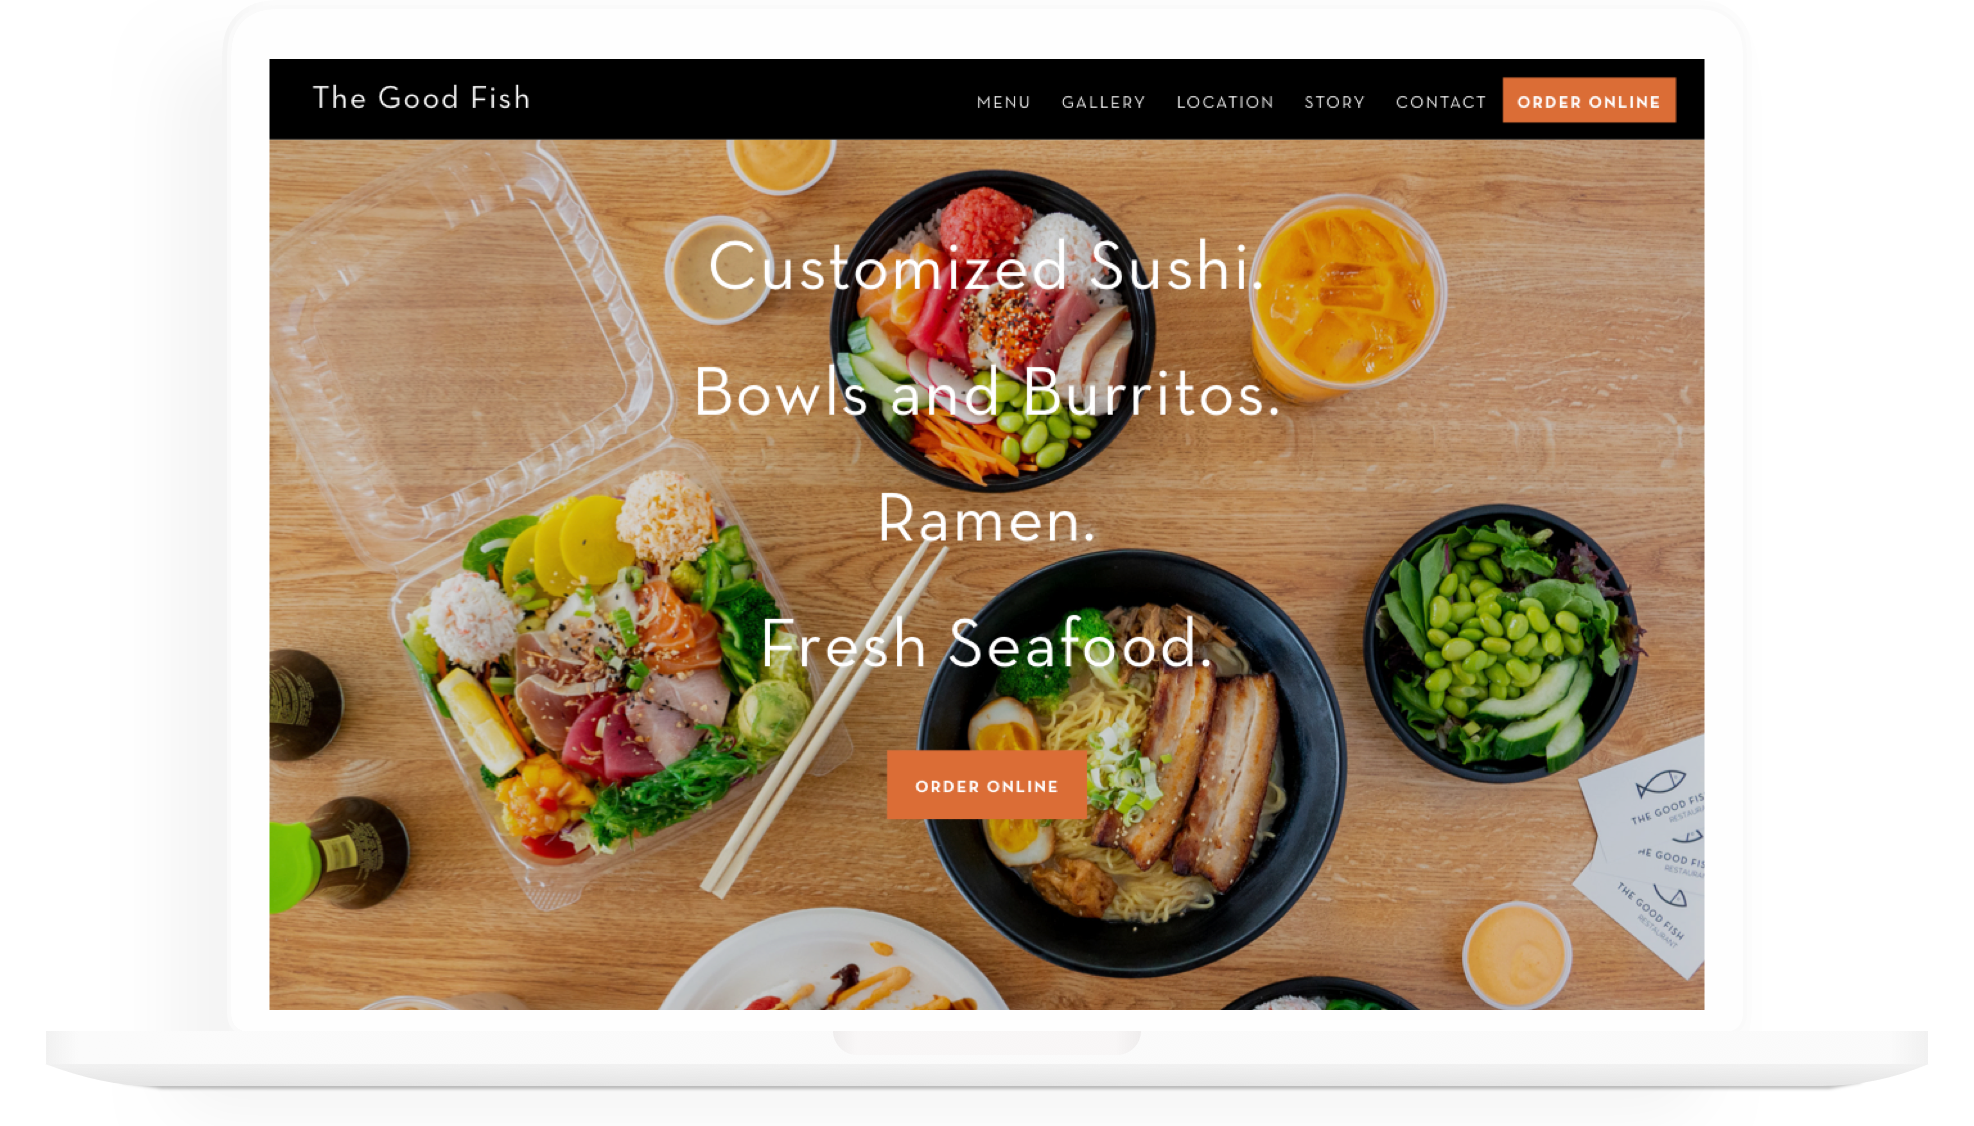
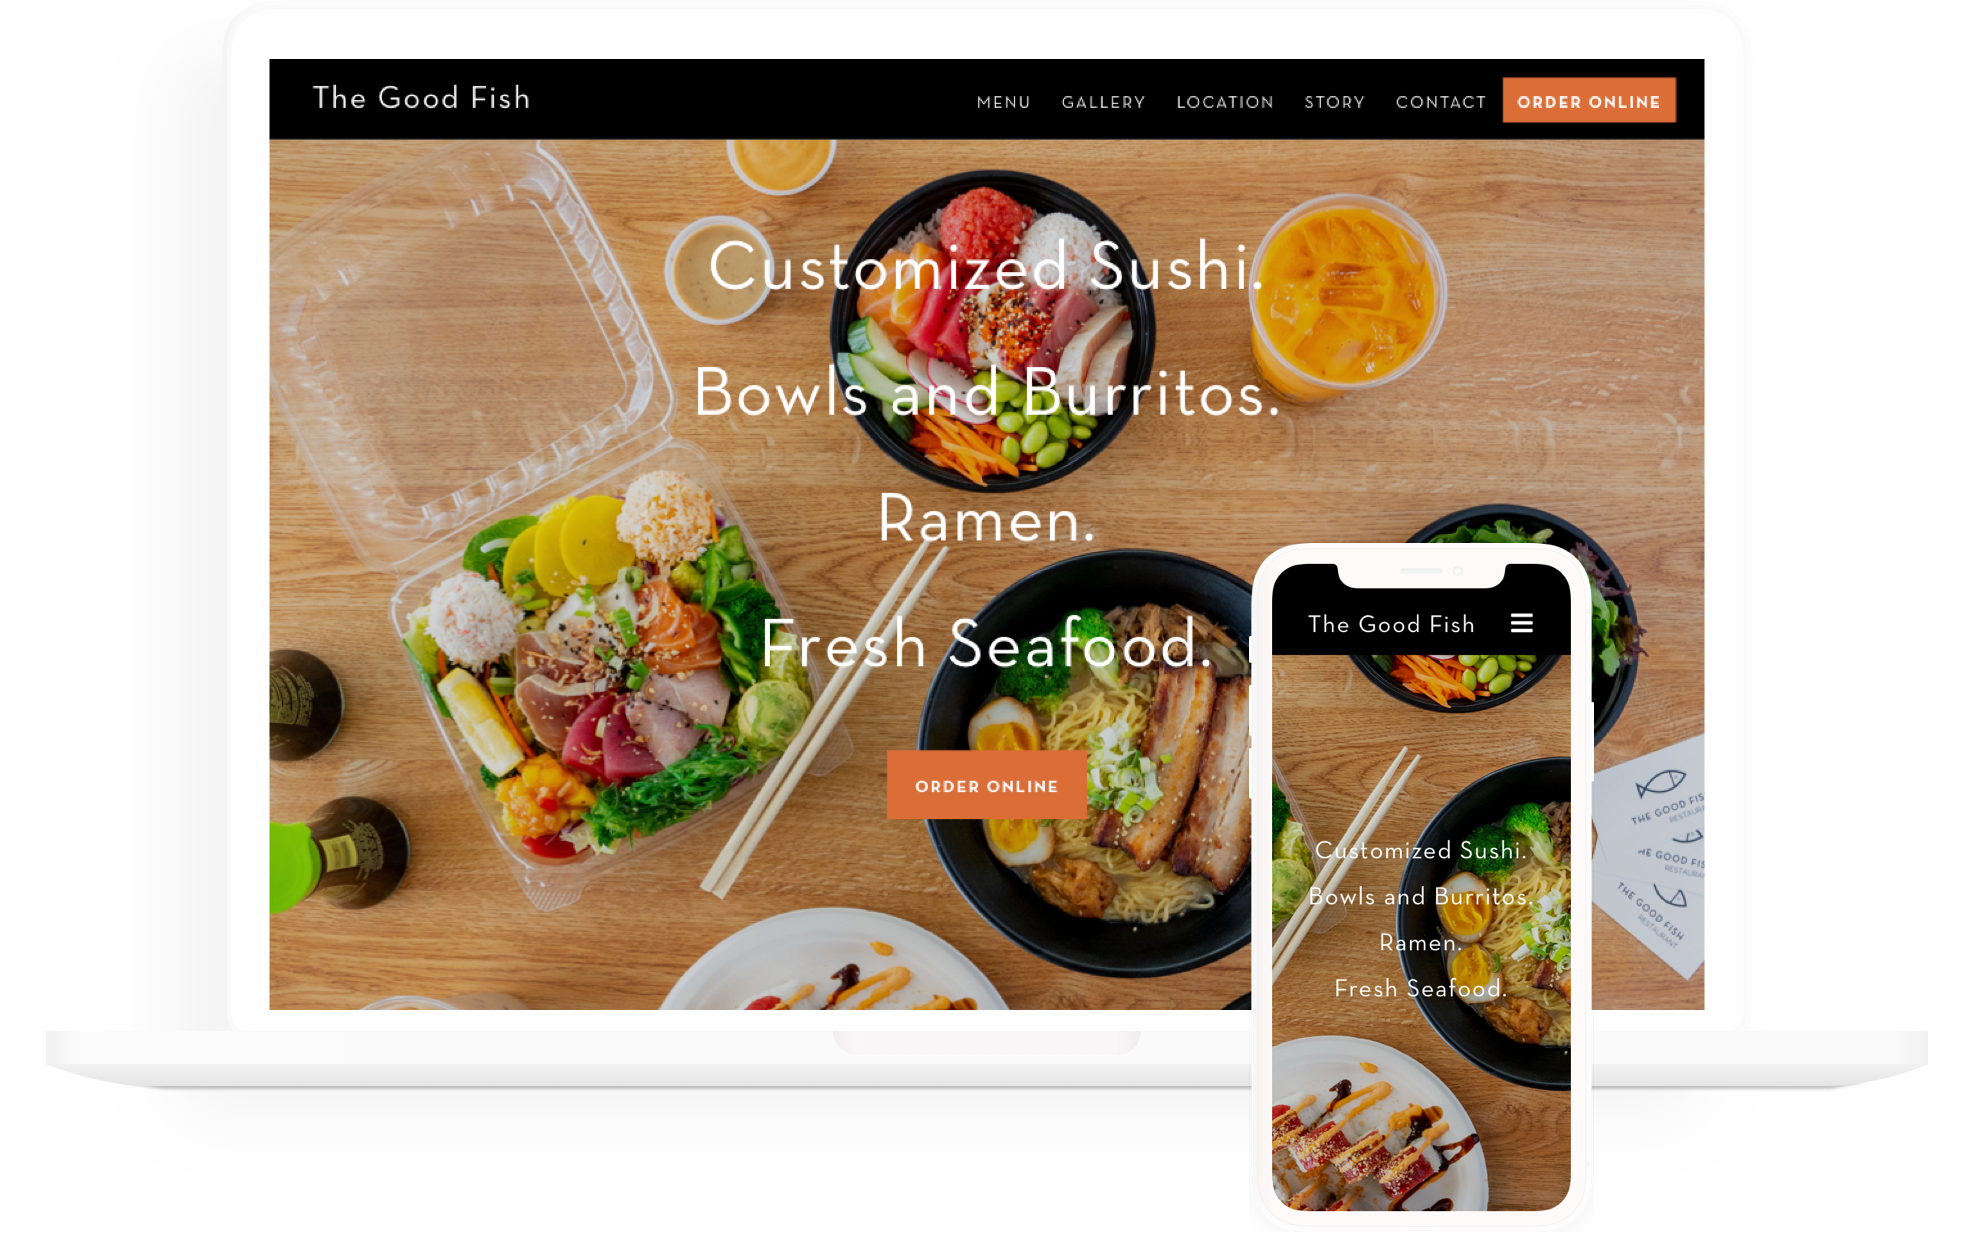
update

diff --git a/css/client-work.css b/css/client-work.css
@@ -102,25 +102,35 @@ TYPOGRAPHY
 IMAGES
 ------------------------------------------- */
 #tgf_laptop {
-  margin-top: 14%;
+  margin-top: 66px;
 }
 
-#tgf_iphone {
-  position: absolute;
-  width: 8%;
-  right: 19%;
-  top: 175%;
+#tgf_laptop2 {
+  display: none;
+  margin-top: 66px;
 }
 
 #tgf_ca {
   border: 10px solid white;
-  width: 90%;
+  width: 100%;
   margin-top: 4%;
   box-shadow: 0 10px 20px rgba(0, 0, 0, 0.19), 0 6px 6px rgba(0, 0, 0, 0.23);
   border-top-left-radius: 15px;
   border-bottom-left-radius: 15px;
   border-top-right-radius: 15px;
   border-bottom-right-radius: 15px;
+}
+
+#tgf_ca2 {
+  border: 10px solid white;
+  width: 100%;
+  margin-top: 4%;
+  box-shadow: 0 10px 20px rgba(0, 0, 0, 0.19), 0 6px 6px rgba(0, 0, 0, 0.23);
+  border-top-left-radius: 15px;
+  border-bottom-left-radius: 15px;
+  border-top-right-radius: 15px;
+  border-bottom-right-radius: 15px;
+  display: none;
 }
 
 #tgf_sitemap, #tgf_flowchart {
@@ -140,7 +150,7 @@ IMAGES
 }
 
 .wireframes img, .hi-fi img, .hi-fi-b img {
-  border: 10px solid white;
+  border: 6px solid white;
   border-top-left-radius: 10px;
   border-bottom-left-radius: 10px;
   border-top-right-radius: 10px;
@@ -491,7 +501,7 @@ COLUMNS
 .column-3, .column-4 {
   display: grid;
   grid-template-columns: 1fr 1fr;
-  grid-column-gap: 5%;
+  grid-column-gap: 6%;
 }
 
 /* ----------------------------------------
@@ -694,6 +704,60 @@ ANIMATIONS
 /* ----------------------------------------
 RESPONSIVE WEB
 ------------------------------------------- */
+@media screen and (max-width: 1537px) {
+  #tgf_laptop {
+    margin-top: 86px;
+    transition: 1s;
+  }
+}
+
+@media screen and (max-width: 1437px) {
+  .column-3 {
+    display: grid;
+    grid-template-columns: 1fr;
+    transition: 1s;
+  }
+
+  #tgf_ca {
+    display: none;
+  }
+
+  #tgf_ca2 {
+    display: block;
+    width: 90%;
+  }
+}
+
+@media screen and (max-width: 1300px) {
+  .column-2 {
+    display: grid;
+    grid-template-columns: 1fr;
+    transition: 1s;
+  }
+
+  #tgf_laptop2 {
+    display: block;
+  }
+
+  #tgf_laptop {
+    display: none;
+  }
+}
+
+@media screen and (max-width: 1060px) {
+  .wireframes, .hi-fi, .hi-fi-b {
+    display: grid;
+    grid-template-columns: 1fr 1fr 1fr;
+    grid-column-gap: 4%;
+    grid-row-gap: 5%;
+    margin-bottom: 12%;
+  }
+
+  .wireframes, .hi-fi, .hi-fi-b {
+    margin-top: 8%;
+  }
+}
+
 @media screen and (max-width: 980px) {
   .text-wrapper {
     padding-top: 54px;
@@ -707,6 +771,13 @@ RESPONSIVE WEB
 
   .title {
     left: 60px;
+  }
+}
+
+@media screen and (max-width: 650px) {
+  .column-4 {
+    display: grid;
+    grid-template-columns: 1fr;
   }
 }
 

diff --git a/client-work.html b/client-work.html
@@ -65,6 +65,7 @@
   <div id="section-2"></div>
   <section class="section-2 sections">
     <div class="column-2">
+      <img id="tgf_laptop2" src="img/tgf_laptop.png" alt="laptop-mock2">
       <div>
         <h3>Scope<span class="yellow-period">.</span></h3>
         <p>The restaurant wants to utilize the website for online orders, as well as provide information about the restaurant, menu, and contact details.</p>
@@ -79,7 +80,6 @@
       </div>
       <div class="column-2-right">
         <img id="tgf_laptop" src="img/tgf_laptop.png" alt="laptop-mock">
-        <img id="tgf_iphone" src="img/tgf_iphone.png" alt="iphone-mock">
       </div>
   </section>
   <!-- SECTION 3 -->
@@ -102,6 +102,9 @@
         <h3>Competitive Analysis<span class="white-period">.</span></h3>
         <p>Along with the key takeaways pertaining to design patterns, we found that the websites were being promoted on their social media (primarily Yelp, Instagram, and Facebook). Also menu items were mainly written without any supplementary
           photos, and most websites did not have the “Order Online” feature.</p>
+      </div>
+      <div>
+        <img id="tgf_ca2" src="img/tgf_ca.jpg" alt="tgf-ca2">
       </div>
   </section>
   </div>
